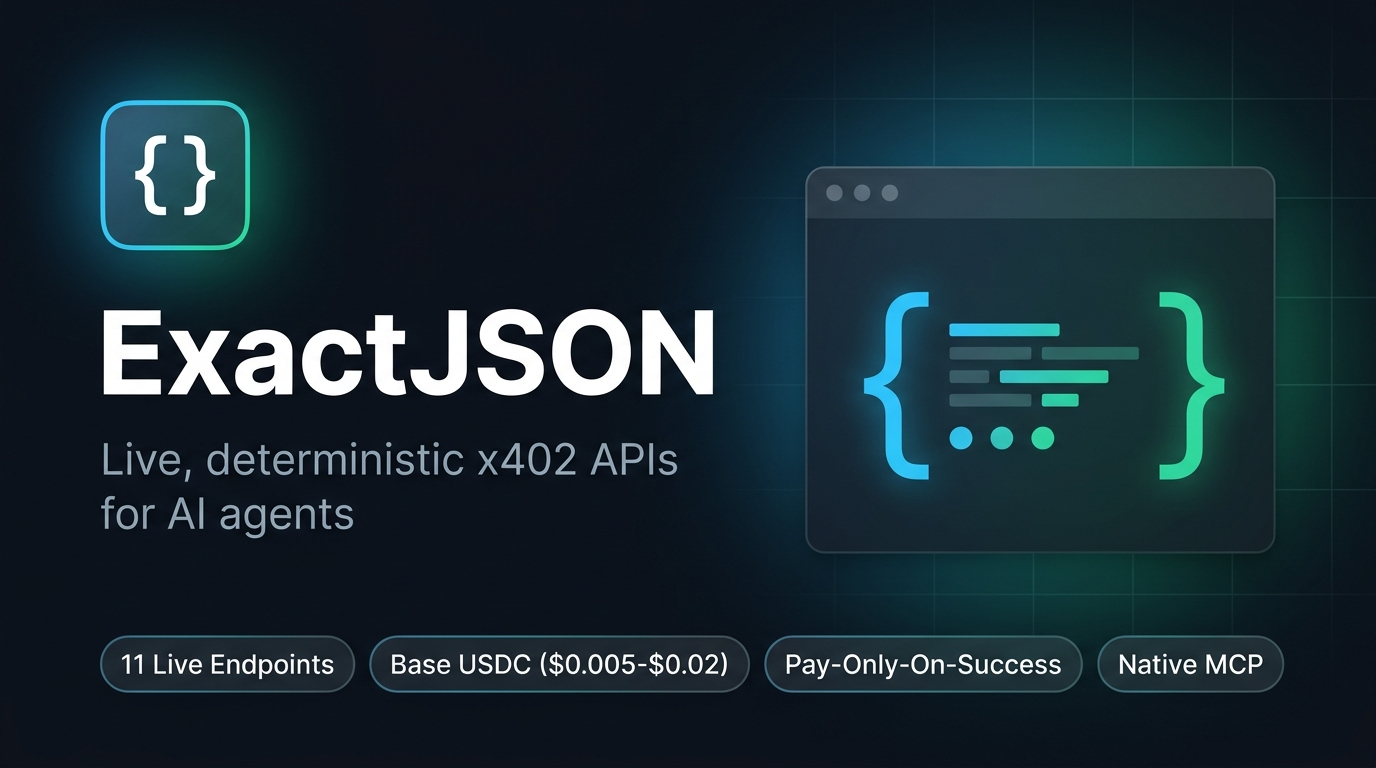
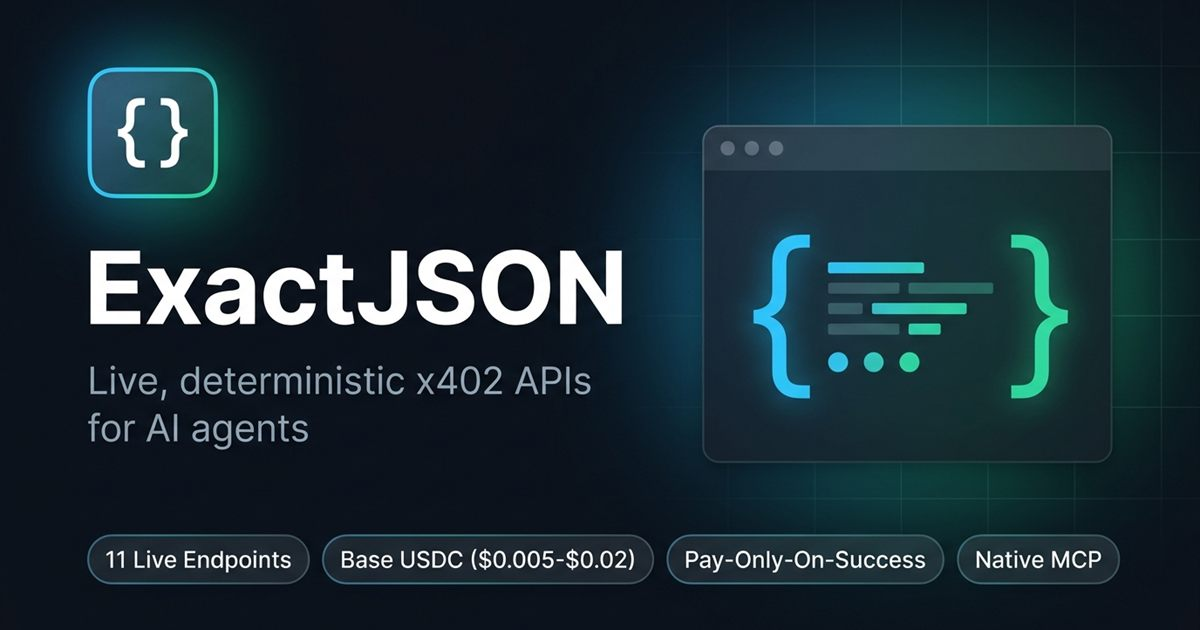
fix: filter Hyperliquid delisted perps, harden EVM/Solana parsers, predictions aliases & MCP 405 guide

diff --git a/src/routes/landingHtml.ts b/src/routes/landingHtml.ts
@@ -343,8 +343,8 @@ export function renderLandingHtml(baseUrl: string, network: string): string {
   <meta property="og:url" content="${escapeHtml(baseUrl)}/">
   <meta property="og:image" content="${escapeHtml(baseUrl)}/og-image.jpg">
   <meta property="og:image:type" content="image/jpeg">
-  <meta property="og:image:width" content="1376">
-  <meta property="og:image:height" content="768">
+  <meta property="og:image:width" content="1200">
+  <meta property="og:image:height" content="630">
   <meta name="twitter:card" content="summary_large_image">
   <meta name="twitter:title" content="${escapeHtml(SERVICE_NAME)} — Live, deterministic x402 APIs for AI agents">
   <meta name="twitter:description" content="${CATALOG.length} live x402 V2 JSON APIs for AI agents on Base USDC ($0.005-$0.02/call) + native MCP.">
@@ -593,6 +593,85 @@ curl -s ${escapeHtml(baseUrl)}/openapi.json</pre>
     <footer>
       <div>${escapeHtml(DISCLAIMER)}</div>
       <div><a href="${escapeHtml(baseUrl)}/">← Back to ${escapeHtml(SERVICE_NAME)} Docs</a> · <a href="mailto:hello@exactjson.com">hello@exactjson.com</a></div>
+    </footer>
+  </div>
+</body>
+</html>`;
+}
+
+export function renderMcpGuideHtml(baseUrl: string): string {
+  return `<!doctype html>
+<html lang="en">
+<head>
+  <meta charset="utf-8">
+  <meta name="viewport" content="width=device-width, initial-scale=1">
+  <meta name="color-scheme" content="dark">
+  <meta name="robots" content="noindex, nofollow">
+  <title>Remote MCP Endpoint (POST /mcp) | ${escapeHtml(SERVICE_NAME)}</title>
+  <link rel="icon" href="/favicon.svg" type="image/svg+xml">
+  <link rel="icon" href="/favicon.ico" sizes="32x32">
+  <style>${SHARED_CSS}  </style>
+</head>
+<body>
+  <div class="wrap">
+    <header>
+      <div class="logo">
+        <a class="logo-brand" href="${escapeHtml(baseUrl)}/">${escapeHtml(SERVICE_NAME)}</a>
+        <span class="badge warn">HTTP 405 · POST Required</span>
+        <span class="badge live">MCP Streamable HTTP · v${escapeHtml(SERVICE_VERSION)}</span>
+      </div>
+      <nav aria-label="Primary">
+        <a href="${escapeHtml(baseUrl)}/">← All Endpoints</a>
+        <a href="${escapeHtml(baseUrl)}/#quickstart">Quickstart</a>
+        <a href="${escapeHtml(baseUrl)}/.well-known/mcp/server-card.json">Server Card</a>
+      </nav>
+    </header>
+
+    <main>
+      <section style="padding: 2rem 0 1rem;">
+        <h1><code>POST ${escapeHtml(baseUrl)}/mcp</code></h1>
+        <p class="lead">
+          This is ExactJSON's stateless <strong>Streamable HTTP MCP endpoint</strong> (JSON-RPC 2.0, 12 tools). Browsers send <code>GET</code>, which returns <code>405 Method Not Allowed</code> — connect your MCP client via <code>POST</code> or use the local stdio CLI.
+        </p>
+      </section>
+
+      <div class="grid-2">
+        <div class="card">
+          <h3>1. Remote Streamable HTTP (Zero Install)</h3>
+          <p>Point any Streamable HTTP MCP client at <code>${escapeHtml(baseUrl)}/mcp</code>, or test in terminal:</p>
+          <pre>curl -s -X POST ${escapeHtml(baseUrl)}/mcp \\
+  -H "Content-Type: application/json" \\
+  -H "Accept: application/json" \\
+  -d '{"jsonrpc":"2.0","id":1,"method":"tools/list"}'</pre>
+        </div>
+        <div class="card">
+          <h3>2. Local Stdio MCP (Auto-Sign Base USDC)</h3>
+          <p>Use <code>npx -y exactjson-mcp</code> in Claude Desktop or Cursor for local EIP-3009 signing:</p>
+          <pre>{
+  "mcpServers": {
+    "exactjson": {
+      "command": "npx",
+      "args": ["-y", "exactjson-mcp"],
+      "env": {
+        "BUYER_PRIVATE_KEY": "0xYOUR_LOW_BALANCE_KEY",
+        "MAX_PAYMENT_USD": "$0.05"
+      }
+    }
+  }
+}</pre>
+        </div>
+      </div>
+
+      <div class="hero-actions" style="margin-top: 1.5rem;">
+        <a class="btn primary" href="${escapeHtml(baseUrl)}/">← Back to ExactJSON Docs</a>
+        <a class="btn" href="${escapeHtml(baseUrl)}/.well-known/mcp/server-card.json">View MCP Server Card</a>
+        <a class="btn" href="${escapeHtml(baseUrl)}/openapi.json">OpenAPI 3.1</a>
+      </div>
+    </main>
+
+    <footer>
+      <div>${escapeHtml(DISCLAIMER)}</div>
+      <div>Contact: <a href="mailto:hello@exactjson.com">hello@exactjson.com</a></div>
     </footer>
   </div>
 </body>

diff --git a/src/providers/honeypotIs.ts b/src/providers/honeypotIs.ts
@@ -5,7 +5,7 @@ import {
   readEdgeCache,
   writeEdgeCache,
 } from "../lib/cache";
-import { fetchJsonWithTimeout } from "../lib/http";
+import { UpstreamError, fetchJsonWithTimeout } from "../lib/http";
 import type { HoneypotIsResult } from "../types";
 
 const HONEYPOT_IS_BASE_URL = "https://api.honeypot.is/v2/IsHoneypot";
@@ -75,10 +75,25 @@ export function parseHoneypotIsResult(
   raw: unknown
 ): { status: "ok"; data: HoneypotIsResult } | { status: "not_found" } {
   if (!raw || typeof raw !== "object" || Array.isArray(raw)) {
-    return { status: "not_found" };
+    throw new UpstreamError(
+      "HONEYPOT_IS",
+      "HONEYPOT_IS_BAD_PAYLOAD",
+      "Honeypot.is returned unexpected payload"
+    );
   }
 
-  const obj = raw as RawHoneypotResponse;
+  const obj = raw as RawHoneypotResponse & { error?: unknown };
+  if (typeof obj.error === "string" && obj.error.trim().length > 0) {
+    const errText = obj.error.trim();
+    if (/not\s*found|no\s*pair/i.test(errText)) {
+      return { status: "not_found" };
+    }
+    const errCode = /rate\s*limit|too\s*many/i.test(errText)
+      ? "HONEYPOT_IS_429"
+      : "HONEYPOT_IS_API_ERROR";
+    throw new UpstreamError("HONEYPOT_IS", errCode, `Honeypot.is error: ${errText}`);
+  }
+
   const hasSimulationField = typeof obj.simulationSuccess === "boolean";
   const hasHoneypotObj =
     obj.honeypotResult !== undefined &&
@@ -86,7 +101,11 @@ export function parseHoneypotIsResult(
     typeof obj.honeypotResult === "object";
 
   if (!hasSimulationField && !hasHoneypotObj) {
-    return { status: "not_found" };
+    throw new UpstreamError(
+      "HONEYPOT_IS",
+      "HONEYPOT_IS_BAD_PAYLOAD",
+      "Honeypot.is response missing simulationSuccess and honeypotResult"
+    );
   }
 
   const simulationSuccess = obj.simulationSuccess === true;

diff --git a/src/providers/geckoTrending.ts b/src/providers/geckoTrending.ts
@@ -93,20 +93,24 @@ export function parseTrendingSolanaPools(raw: unknown): TrendingSolanaPool[] {
     const fdvRaw = toFiniteNumber(attrs.fdv_usd);
     const tx24 = attrs.transactions?.h24;
 
+    const buysRaw = toFiniteNumber(tx24?.buys);
+    const sellsRaw = toFiniteNumber(tx24?.sells);
+    const tradersRaw = toFiniteNumber(tx24?.unique_traders);
+
     pools.push({
       mint,
       symbol: symbol && symbol.length > 0 ? symbol : null,
       poolName,
       poolAddress: typeof attrs.address === "string" ? attrs.address : null,
       dex: typeof item.relationships?.dex?.data?.id === "string" ? item.relationships.dex.data.id : null,
-      priceUsd: priceRaw !== null ? roundPriceUsd(priceRaw, 10) : null,
+      priceUsd: priceRaw !== null && priceRaw >= 0 ? roundPriceUsd(priceRaw, 10) : null,
       liquidityUsd: roundTo(Math.max(0, liqRaw), 2),
       volume24hUsd: roundTo(Math.max(0, volRaw), 2),
-      fdvUsd: fdvRaw !== null ? roundTo(fdvRaw, 2) : null,
+      fdvUsd: fdvRaw !== null && fdvRaw >= 0 ? roundTo(fdvRaw, 2) : null,
       priceChange24hPct: toFiniteNumber(attrs.price_change_percentage?.h24),
-      buys24h: toFiniteNumber(tx24?.buys),
-      sells24h: toFiniteNumber(tx24?.sells),
-      uniqueTraders24h: toFiniteNumber(tx24?.unique_traders),
+      buys24h: buysRaw !== null && buysRaw >= 0 ? buysRaw : null,
+      sells24h: sellsRaw !== null && sellsRaw >= 0 ? sellsRaw : null,
+      uniqueTraders24h: tradersRaw !== null && tradersRaw >= 0 ? tradersRaw : null,
       poolCreatedAt: typeof attrs.pool_created_at === "string" ? attrs.pool_created_at : null,
     });
   }

diff --git a/tests/evmSafety.test.ts b/tests/evmSafety.test.ts
@@ -158,13 +158,15 @@ describe("EVM provider parsers", () => {
     expect(parsed.data.lpLockedPct).toBe(85); // 60% burned + 25% locked
   });
 
-  it("throws GOPLUS_429 when GoPlus returns HTTP 200 with rate-limit code", () => {
+  it("throws GOPLUS_429 when GoPlus returns HTTP 200 with rate-limit code and rejects empty envelope", () => {
     expect(() =>
       parseGoPlusTokenSecurity(8453, BASE_USDC_LOWER, {
         code: 4029,
         message: "Rate limit exceeded",
       })
     ).toThrow(UpstreamError);
+
+    expect(() => parseGoPlusTokenSecurity(8453, BASE_USDC_LOWER, {})).toThrow(UpstreamError);
   });
 
   it("returns not_found when GoPlus result is empty and leaves empty owner_address as null (unknown)", () => {
@@ -203,6 +205,15 @@ describe("EVM provider parsers", () => {
     expect(parsed.data.sellTaxPct).toBe(12.25);
     expect(parsed.data.isHoneypot).toBe(false);
     expect(parsed.data.holderCount).toBe(420);
+
+    // HTTP 200 error/empty payloads must fail closed rather than silently returning not_found
+    expect(() => parseHoneypotIsResult(8453, BASE_USDC_LOWER, { error: "Rate limit exceeded" })).toThrow(
+      UpstreamError
+    );
+    expect(() => parseHoneypotIsResult(8453, BASE_USDC_LOWER, {})).toThrow(UpstreamError);
+    expect(parseHoneypotIsResult(8453, BASE_USDC_LOWER, { error: "Pair not found" }).status).toBe(
+      "not_found"
+    );
   });
 
   it("matches checksummed EVM addresses case-insensitively and filters target chain", () => {

diff --git a/src/routes/mcp.ts b/src/routes/mcp.ts
@@ -11,6 +11,8 @@ import {
   resolveMcpToolEndpoint,
 } from "../lib/mcpTools";
 import { markMcpInternalRequest } from "../lib/transport";
+import { prefersHtml } from "../lib/contentNegotiation";
+import { renderMcpGuideHtml } from "./landingHtml";
 import type { AppBindings, Env } from "../types";
 
 // IMPORTANT: Never import @x402/* or @coinbase/x402 in this file to keep free MCP calls near 0ms cold start.
@@ -394,6 +396,19 @@ export function createMcpHandler(dispatchInternal: InternalRequestDispatcher) {
   const mcpMethodNotAllowedHandler = (c: Context<AppBindings>) => {
     c.header("Allow", "POST, OPTIONS");
     c.header("Cache-Control", "no-store");
+    c.header("Vary", "Accept");
+    c.header("X-Content-Type-Options", "nosniff");
+
+    if (c.req.method === "GET" && prefersHtml(c.req.header("accept"))) {
+      c.header("X-Frame-Options", "DENY");
+      c.header("Referrer-Policy", "strict-origin-when-cross-origin");
+      c.header(
+        "Content-Security-Policy",
+        "default-src 'none'; style-src 'unsafe-inline'; img-src 'self' data:; base-uri 'self'; form-action 'none'; frame-ancestors 'none'"
+      );
+      return c.html(renderMcpGuideHtml(resolveInternalOrigin(c)), 405);
+    }
+
     return c.json(
       {
         jsonrpc: "2.0",

diff --git a/tests/mcp.test.ts b/tests/mcp.test.ts
@@ -214,6 +214,22 @@ describe("Remote Streamable HTTP /mcp endpoint & x402 MCP wire contract", () => 
     const getRes = await app.request("http://localhost:8787/mcp", { method: "GET" }, env);
     expect(getRes.status).toBe(405);
     expect(getRes.headers.get("allow")).toContain("POST");
+    expect(getRes.headers.get("content-type")).toContain("application/json");
+
+    // Browser GET /mcp returns a helpful 405 HTML guide with strict CSP while keeping Allow: POST, OPTIONS
+    const getHtmlRes = await app.request(
+      "http://localhost:8787/mcp",
+      {
+        method: "GET",
+        headers: { Accept: "text/html,application/xhtml+xml,*/*;q=0.8" },
+      },
+      env
+    );
+    expect(getHtmlRes.status).toBe(405);
+    expect(getHtmlRes.headers.get("allow")).toContain("POST");
+    expect(getHtmlRes.headers.get("content-type")).toContain("text/html");
+    expect(getHtmlRes.headers.get("content-security-policy")).toContain("default-src 'none'");
+    expect(await getHtmlRes.text()).toContain("Streamable HTTP MCP endpoint");
 
     const delRes = await app.request("http://localhost:8787/mcp", { method: "DELETE" }, env);
     expect(delRes.status).toBe(405);

diff --git a/tests/perpMetrics.test.ts b/tests/perpMetrics.test.ts
@@ -113,22 +113,25 @@ describe("perpMetrics", () => {
     expect(classifyFundingRegime(null)).toBe("NEUTRAL");
   });
 
-  it("indexes metaAndAssetCtxs case-insensitively while preserving canonical names like kPEPE", () => {
+  it("indexes metaAndAssetCtxs case-insensitively while preserving canonical names like kPEPE and skipping delisted perps", () => {
     const map = indexMetaAndAssetCtxs([
       {
         universe: [
           { name: "BTC", maxLeverage: 50, szDecimals: 5 },
           { name: "kPEPE", maxLeverage: 10, szDecimals: 0 },
+          { name: "RLB", maxLeverage: 3, szDecimals: 0, isDelisted: true },
         ],
       },
       [
         { markPx: "95000", oraclePx: "94990", funding: "0.00001", openInterest: "10" },
         { markPx: "0.018", oraclePx: "0.0179", funding: "-0.00002", openInterest: "500000" },
+        { markPx: "0.05", oraclePx: "0.05", funding: "0", openInterest: "0" },
       ],
     ]);
 
     expect(map.get("kpepe")?.canonicalName).toBe("kPEPE");
     expect(map.get("btc")?.canonicalName).toBe("BTC");
+    expect(map.has("rlb")).toBe(false);
 
     const parsedBook = parseL2Book("kPEPE", {
       coin: "kPEPE",

diff --git a/tests/predictions.test.ts b/tests/predictions.test.ts
@@ -296,12 +296,17 @@ describe("prediction markets providers & scanner", () => {
       createPredictionsScannerHandler({ cache: new BoundedTtlCache(), fetchImpl: mockFetch })
     );
 
-    // 1 of 2 venues succeeds -> 200 with polymarket active
+    // 1 of 2 venues succeeds -> 200 with polymarket active (supports canonical aliases like bitcoin <-> BTC)
     const okRes = await app.request("http://localhost/v1/predictions/scanner?query=btc");
     expect(okRes.status).toBe(200);
     const body = (await okRes.json()) as { venues_active: string[]; market_summary: { matching_count: number } };
     expect(body.venues_active).toEqual(["polymarket"]);
     expect(body.market_summary.matching_count).toBe(1);
+
+    const aliasRes = await app.request("http://localhost/v1/predictions/scanner?query=bitcoin");
+    expect(aliasRes.status).toBe(200);
+    const aliasBody = (await aliasRes.json()) as { market_summary: { matching_count: number } };
+    expect(aliasBody.market_summary.matching_count).toBe(1);
 
     // Non-matching query -> 404 unsettled
     const notFound = await app.request("http://localhost/v1/predictions/scanner?query=nonexistentxyz");

diff --git a/src/services/predictionsArb.ts b/src/services/predictionsArb.ts
@@ -179,7 +179,7 @@ const NEGATION_TOKENS = new Set([
 const NEGATIVE_CONTRACTION_RE =
   /\b(?:won|don|doesn|didn|isn|aren|wasn|weren|can|couldn|wouldn|shouldn|haven|hasn|hadn)['’]t\b/g;
 
-function resolveTokenAlias(token: string): string {
+export function resolveTokenAlias(token: string): string {
   return Object.prototype.hasOwnProperty.call(TOKEN_ALIASES, token)
     ? TOKEN_ALIASES[token]!
     : token;
@@ -362,12 +362,13 @@ export function normalizeMarketTitle(title: string): NormalizedTitle {
     if (isPlainNumberToken(tok) && !isYearToken(tok)) {
       const prev = i > 0 ? tagged[i - 1]!.token : "";
       const next = i + 1 < tagged.length ? tagged[i + 1]!.token : "";
+      const next2 = i + 2 < tagged.length ? tagged[i + 2]!.token : "";
       const hasUnitAfter = NUMERIC_UNITS.has(next);
       const isCalendarDay =
         !entry.isCurrency &&
         !hasUnitAfter &&
         isDayOfMonthNumber(tok) &&
-        (MONTHS.has(prev) || MONTHS.has(next));
+        (MONTHS.has(prev) || MONTHS.has(next) || (next === "of" && MONTHS.has(next2)));
 
       if (!isCalendarDay) {
         thresholdNumbers.add(tok);

diff --git a/tests/predictionsArb.test.ts b/tests/predictionsArb.test.ts
@@ -58,13 +58,22 @@ describe("prediction markets arbitrage engine & route", () => {
       expect(typeof tok).toBe("string");
     }
 
-    // Ordinal calendar dates ("December 31st" vs "Dec 31") normalize cleanly
+    // Ordinal calendar dates ("December 31st" and "31st of December" vs "Dec 31") normalize cleanly
     const ordSim = computeTitleSimilarity(
       normalizeMarketTitle("Will BTC trade above $100k before Dec 31?"),
       normalizeMarketTitle("Bitcoin above $100,000 by December 31st?")
     );
     expect(ordSim.confidence).toBe("HIGH");
     expect(ordSim.score).toBe(1);
+
+    const ordOf = normalizeMarketTitle("Will Bitcoin reach $100k by the 31st of December 2026?");
+    expect(ordOf.thresholdNumbers.has("31")).toBe(false);
+    expect(ordOf.thresholdNumbers.has("100000")).toBe(true);
+    const ordOfSim = computeTitleSimilarity(
+      normalizeMarketTitle("Will BTC exceed $100,000 by Dec 31, 2026?"),
+      ordOf
+    );
+    expect(ordOfSim.confidence).toBe("HIGH");
   });
 
   it("rejects false positives: mismatched strikes, opposite comparators, antonyms, and range contracts", () => {

diff --git a/src/services/predictionsScanner.ts b/src/services/predictionsScanner.ts
@@ -1,4 +1,5 @@
 import { DISCLAIMER } from "../config/catalog";
+import { normalizeMarketTitle, resolveTokenAlias } from "./predictionsArb";
 import type {
   PredictionMarketItem,
   PredictionVenueName,
@@ -98,7 +99,12 @@ function enrichMarket(raw: RawPredictionMarket, nowMs: number): PredictionMarket
 function matchesQuery(raw: RawPredictionMarket, queryTokens: string[]): boolean {
   if (queryTokens.length === 0) return true;
   const haystack = `${raw.title} ${raw.id} ${raw.category ?? ""}`.toLowerCase();
-  return queryTokens.every((tok) => haystack.includes(tok));
+  if (queryTokens.every((tok) => haystack.includes(tok))) return true;
+  const normalized = normalizeMarketTitle(raw.title);
+  return queryTokens.every((tok) => {
+    if (haystack.includes(tok)) return true;
+    return normalized.tokens.has(resolveTokenAlias(tok));
+  });
 }
 
 export function computePredictionsScanner(

diff --git a/src/providers/goplus.ts b/src/providers/goplus.ts
@@ -154,10 +154,17 @@ export function parseGoPlusTokenSecurity(
   address: string,
   raw: unknown
 ): { status: "ok"; data: GoPlusTokenSecurity } | { status: "not_found" } {
-  const payload = (raw !== null && typeof raw === "object" ? raw : {}) as RawGoPlusResponse;
+  if (!raw || typeof raw !== "object" || Array.isArray(raw)) {
+    throw new UpstreamError("GOPLUS", "GOPLUS_BAD_PAYLOAD", "GoPlus returned unexpected payload");
+  }
+  const payload = raw as RawGoPlusResponse;
   const code = toFiniteNumber(payload.code);
 
-  if (code !== null && code !== 1) {
+  if (code === null) {
+    throw new UpstreamError("GOPLUS", "GOPLUS_BAD_PAYLOAD", "GoPlus response missing status code");
+  }
+
+  if (code !== 1) {
     const msg = typeof payload.message === "string" ? payload.message : `code ${code}`;
     const errCode =
       code === 4029 || /rate\s*limit|too\s*many/i.test(msg)
